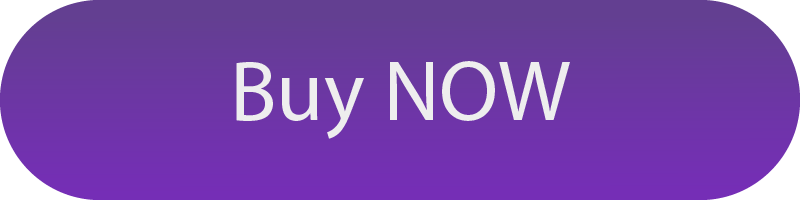
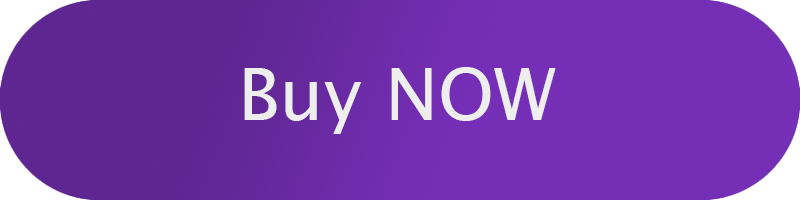
Add files via upload

diff --git a/index.html b/index.html
@@ -2,6 +2,7 @@
 <meta name="viewport" content="width=device-width, initial-scale=1.0">
 <link rel="stylesheet" media="screen and (min-width: 601px)" href="style2.css">
 <link rel="stylesheet" media="screen and (max-width: 600px)" href="style.css">
+<script src="scroll.js"></script>
 <div class="first">
     <div class="header">
         <div class="head-cont">
@@ -30,7 +31,7 @@
                             What is GENMEN™? <br />
                         </p>
                     </div>
-                    <div class="buynow"></div>
+                    <button class="buynow" onclick="scrollToItem(fourth)"></button>
                 </p>
             </div>
             <img src="SVG/machine.jpg" alt="Machine" width="350" height="550">
@@ -76,7 +77,7 @@
         </div>
     </div>
 </div>
-<div class="fourth">
+<div id="fourth" class="fourth">
     <div class="offers">
         <div class="offdes"><b>GENMEN II™</b></div>
         <div class="badoff"></div>

diff --git a/style2.css b/style2.css
@@ -179,6 +179,8 @@ img{
     width:100%;
 }
 .buynow{
+    cursor: pointer;
+    border: none;
     background-image: url(SVG/buynow.png);
     width: 24vw;
     height: 6vw;
@@ -186,6 +188,9 @@ img{
     background-size: 24vw 6vw;
     background-repeat: no-repeat;
 
+}
+.buynow:hover{
+    background-image: url(SVG/buynowhover.png);
 }
 
 .cont-desc{

diff --git a/style.css b/style.css
@@ -164,6 +164,7 @@ html, body{
     width:100%;
 }
 .buynow{
+    border: none;
     background-image: url(SVG/buynow.png);
     width: 48vw;
     height: 12vw;
@@ -172,6 +173,9 @@ html, body{
     background-size: 48vw 12vw;
     background-repeat: no-repeat;
 
+}
+.buynow:active{
+    background-image: url(SVG/buynowhover.png);
 }
 
 .cont-desc{

diff --git a/scroll.js b/scroll.js
@@ -1,0 +1,10 @@
+function scrollToItem(item) {
+    var diff=(item.offsetTop-window.scrollY)/8
+    if (Math.abs(diff)>1) {
+        window.scrollTo(0, (window.scrollY+diff))
+        clearTimeout(window._TO)
+        window._TO=setTimeout(scrollToItem, 30, item)
+    } else {
+        window.scrollTo(0, item.offsetTop)
+    }
+}
